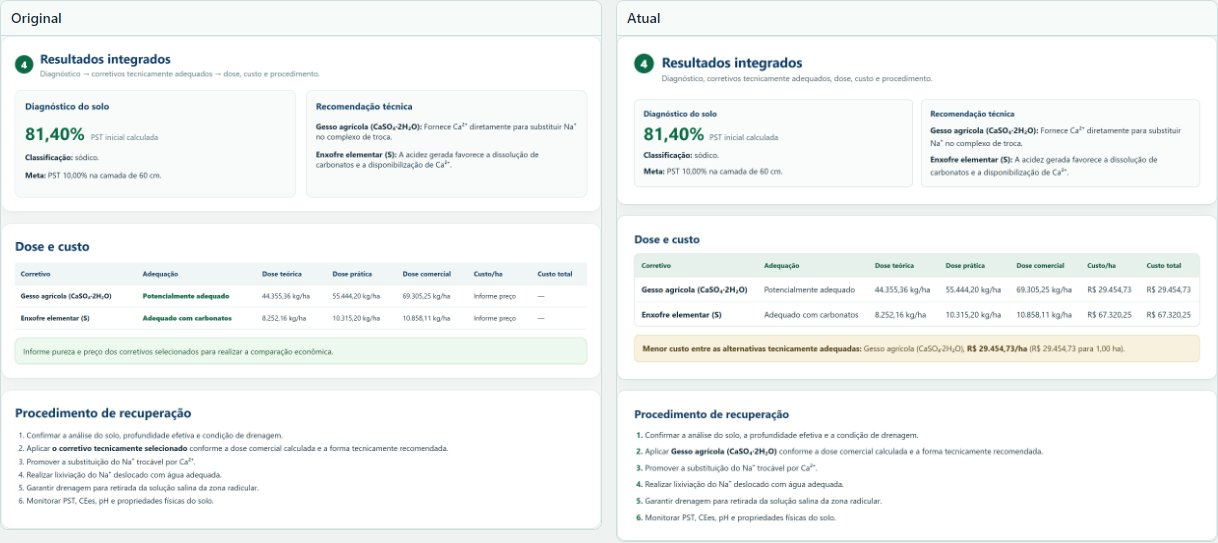
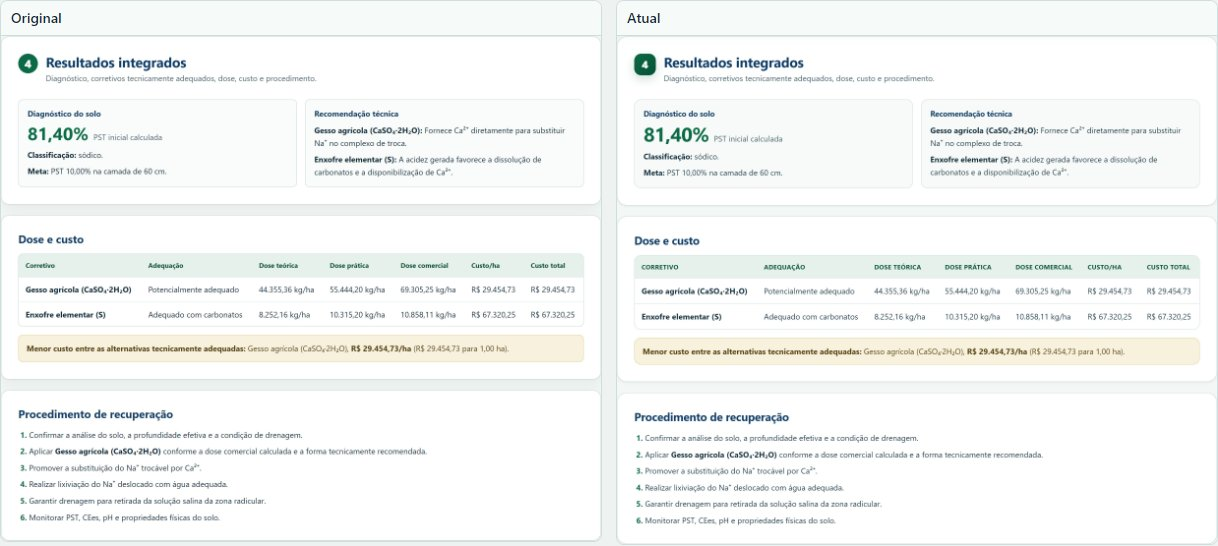
Comparações e documentação atualizadas

diff --git a/MODERNIZACAO.md b/MODERNIZACAO.md
@@ -1,24 +1,22 @@
-# Mudanças visuais
+# Modernização
 
-Registro da modernização da interface do RECUPERA-SOLO, incorporada à `main`.
-O cálculo agronômico, os textos técnicos, os identificadores e a estrutura da
-página foram preservados. A alteração de
-interface ficou restrita a `index.html`, `style.css` e `script.js`.
+Atualização visual incorporada à `main`. Fórmulas, coeficientes, textos
+técnicos, identificadores e estrutura da página foram preservados.
 
-A documentação, a geração do artigo e os testes de uso acompanham o site no
-mesmo repositório. O código do site, o gerador do APK e o fluxo de integração
-contínua ficam na `main`.
+## Mudanças
 
-## Cabeçalho compacto
+| Item | Antes | Atual |
+|---|---|---|
+| Cabeçalho | alto | compacto, com faixa de 2 px e fixo a partir de 901 px |
+| Paleta | cores soltas | tokens semânticos |
+| Superfícies | raio de 16 px | raio de 20 px, borda de 1 px e sombra leve |
+| Campos | 54 px, raio de 12 px | 56 px, raio de 14 px e anel de foco de 4 px |
+| Botões | padding de 13 px | 48 px de altura mínima e raio de 12 px |
+| Tabela | linhas finas | cabeçalho em caixa alta e cartões abaixo de 620 px |
 
-- Espaçamento vertical reduzido e faixa cromática de 2 px.
-- Logotipo, título, subtítulo e carimbo com tamanhos menores.
-- A partir de 901 px, o cabeçalho permanece fixo com desfoque de fundo.
-- No celular, a altura ficou próxima de 129 px; no computador, de 94 px.
+Altura do cabeçalho: 94 px no computador e 129 px no celular.
 
 ## Paleta
-
-As cores da identidade foram mantidas e organizadas em tokens semânticos.
 
 | Papel | Cor |
 |---|---|
@@ -32,76 +30,26 @@ As cores da identidade foram mantidas e organizadas em tokens semânticos.
 | Linha | `#d6e2e1` |
 | Alerta | `#a2470f` |
 
-Os nomes herdados `--verde`, `--ocre`, `--tinta`, `--linha` e `--papel`
-permaneceram, o que manteve a leitura da folha de estilo e o vínculo com a
-identidade original. O tema é sempre claro, e a página declara
-`color-scheme: light`.
-
-## Tipografia e forma
-
-- Família do sistema iniciada por `system-ui`, com `Segoe UI` como alternativa.
-- Títulos com peso 750 e `text-wrap: balance`; parágrafos com `text-wrap: pretty`.
-- Tamanhos fluidos por `clamp()` no título, nos cabeçalhos de seção e nos números
-  de resultado.
-- Escala de raios: 10 px para selos, 14 px para campos e caixas e 20 px para
-  cartões.
-- Duas sombras discretas, uma para repouso e outra para realce.
-
-## Componentes
-
-- Cartões com borda de 1 px, raio de 20 px e sombra leve; os números de seção
-  viraram quadrados arredondados com gradiente.
-- Campos com 56 px de altura, borda de 1,5 px, raio de 14 px e anel de foco de
-  4 px; o estado inválido continua com fundo de alerta e borda de 2 px.
-- Caixa de seleção do corretivo preservada em 22 px, com marca desenhada e
-  contorno de foco próprio.
-- Botões com 48 px de altura mínima, raio de 12 px, estado pressionado e
-  variação secundária; a área de toque acompanha a recomendação de 44 px.
-- Tabela com cabeçalho em caixa alta, linhas de 1 px e realce na passagem do
-  ponteiro; em telas de até 620 px, cada linha vira um cartão com rótulos.
-- Caixas de resultado, aviso de menor custo e resumo de erros receberam as cores
-  dos tokens e o mesmo raio das demais superfícies.
-- Rodapé com linha de separação e links com realce no ponteiro.
-
 ## Acessibilidade
 
-- Foco visível em todos os elementos interativos, com anel de 4 px.
+- Foco visível em todos os elementos interativos.
 - Contraste reforçado por `prefers-contrast: more`.
 - Movimento reduzido por `prefers-reduced-motion`.
-- Área de toque de 44 px nos botões.
-- Rótulos, dicas, resumo de erros e legenda da tabela preservados.
+- Alvos de toque de 44 px nos botões.
 - Impressão sempre em cores claras.
-
-## Responsividade
-
-- Quatro colunas até 1100 px, três até 900 px, duas até 620 px e uma coluna em
-  telas estreitas.
-- A tabela deixa de rolar na horizontal e passa a cartões com `data-rotulo`.
-- A página não cria rolagem lateral em 320 px.
 
 ## Verificação
 
-- 15 testes de unidade aprovados.
-- 50 testes de navegador aprovados, em computador e celular.
-- Capturas de tela conferidas em 1280 px e 390 px.
-- Cabeçalho medido em 94 px no computador e 129 px no celular, com a página
-  aberta por `file://`.
+- 15 testes de unidade e 50 testes de navegador aprovados.
+- Capturas em `imagens/`, comparadas com a versão anterior.
+- APK em `apk/dist`, com cópia idêntica em `apk/RECUPERA-SOLO.apk`.
 
-## Comparação entre versões
+## Compilação
 
-O comando `apk/gerar_apk.cmd` compila o site da branch em uso. Sem parâmetros, o
-`versionName` recebe o nome da branch e o `versionCode` recebe ano, mês, dia e
-hora em um número de oito dígitos, o que mantém a instalação possível sobre a
-versão anterior. Na `main`, o arquivo gerado é
-`apk/dist/RECUPERA-SOLO-main.apk`.
+`apk/gerar_apk.cmd` compila a branch em uso, grava
+`apk/dist/RECUPERA-SOLO-<branch>.apk` e copia o arquivo para
+`apk/RECUPERA-SOLO.apk`. Sem parâmetros, o `versionName` recebe o nome da branch
+e o `versionCode` recebe ano, mês, dia e hora.
 
-A pasta `dist` mantém apenas o APK da última compilação, e
-`apk/RECUPERA-SOLO.apk` recebe uma cópia idêntica. As duas pastas passam a
-conter o mesmo arquivo depois de cada execução.
-
-As compilações usam o mesmo pacote `br.edu.ufersa.recuperasolo` e a mesma chave
-de assinatura. A versão instalada substitui a anterior, e o nome da branch
-aparece nas informações do aplicativo.
-
-O fluxo **Aplicativo Android** é disparado por push na `main` e publica o APK
-em `apk/RECUPERA-SOLO.apk`, além do artefato da execução.
+O fluxo **Aplicativo Android** roda a cada push na `main`, publica o artefato da
+execução e atualiza o APK versionado.

diff --git a/README.md b/README.md
@@ -80,12 +80,11 @@ No exemplo: gesso R$ 29.454,73/ha e enxofre R$ 67.320,25/ha.
 
 ## Modernização
 
-A atualização visual do site e do APK reúne paleta em tokens, superfícies,
-tipografia revisada e cabeçalho compacto. O registro completo está em
-[MODERNIZACAO.md](MODERNIZACAO.md).
+Paleta em tokens, superfícies, tipografia revisada e cabeçalho compacto. O
+registro está em [MODERNIZACAO.md](MODERNIZACAO.md).
 
-Cada compilação por `apk/gerar_apk.cmd` grava o APK em `apk/dist` e uma cópia
-idêntica em `apk/RECUPERA-SOLO.apk`.
+`apk/gerar_apk.cmd` grava o APK em `apk/dist` e copia para
+`apk/RECUPERA-SOLO.apk`.
 
 ## Comparação
 

diff --git a/COMPARACAO.md b/COMPARACAO.md
@@ -40,7 +40,7 @@ e seguia para o cálculo.
 | Faixas | parciais | todos os campos |
 | Erro | genérico | campo, faixa e correção |
 | Dicas | ausentes | faixa e exemplo por campo |
-| Altura do campo | 46 px | 54 px |
+| Altura do campo | 46 px | 56 px |
 | Borda | 1 px clara | 1,5 px escura |
 | Foco | 3 px | 4 px |
 | Exemplo | ponto decimal | vírgula |
